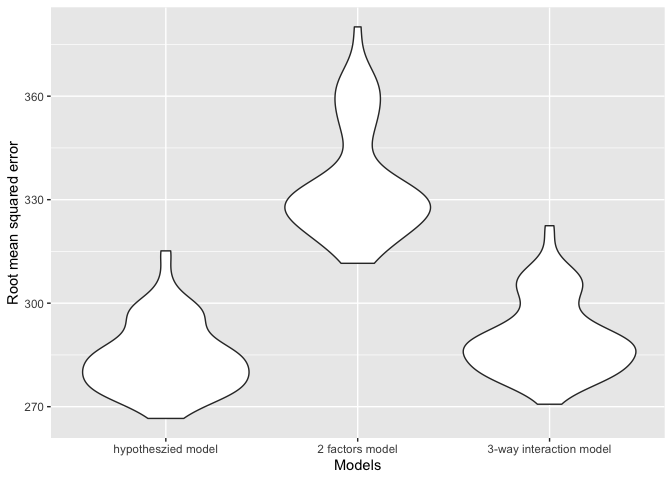
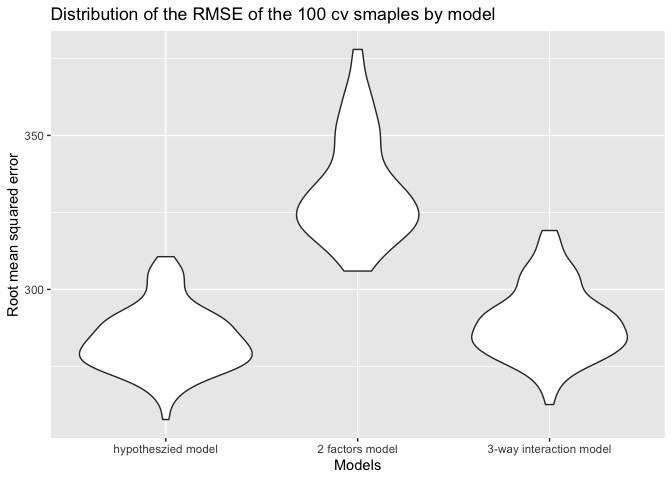
Problem 2 finished

diff --git a/p8105_hw6_xm2229.md b/p8105_hw6_xm2229.md
@@ -12,14 +12,14 @@ factor where appropriate, check for missing data, etc.).
 library(tidyverse)
 ```
 
-    ## ── Attaching packages ──────────────────────────────────────────── tidyverse 1.2.1 ──
+    ## ── Attaching packages ─────────────────────────────────────── tidyverse 1.2.1 ──
 
     ## ✔ ggplot2 3.2.1     ✔ purrr   0.3.3
     ## ✔ tibble  2.1.3     ✔ dplyr   0.8.3
     ## ✔ tidyr   1.0.0     ✔ stringr 1.4.0
     ## ✔ readr   1.3.1     ✔ forcats 0.4.0
 
-    ## ── Conflicts ─────────────────────────────────────────────── tidyverse_conflicts() ──
+    ## ── Conflicts ────────────────────────────────────────── tidyverse_conflicts() ──
     ## ✖ dplyr::filter() masks stats::filter()
     ## ✖ dplyr::lag()    masks stats::lag()
 
@@ -44,7 +44,7 @@ janitor::clean_names(raw_bw) %>%
     ##  n obs: 4342 
     ##  n variables: 20 
     ## 
-    ## ── Variable type:numeric ────────────────────────────────────────────────────────────
+    ## ── Variable type:numeric ───────────────────────────────────────────────────────
     ##  variable missing complete    n      mean      sd     p0     p25     p50
     ##   babysex       0     4342 4342    1.49     0.5     1       1       1   
     ##     bhead       0     4342 4342   33.65     1.62   21      33      34   
@@ -124,7 +124,7 @@ skimr::skim(cleaned_bw)
     ##  n obs: 4342 
     ##  n variables: 20 
     ## 
-    ## ── Variable type:factor ─────────────────────────────────────────────────────────────
+    ## ── Variable type:factor ────────────────────────────────────────────────────────
     ##  variable missing complete    n n_unique
     ##   babysex       0     4342 4342        2
     ##     frace       0     4342 4342        5
@@ -136,7 +136,7 @@ skimr::skim(cleaned_bw)
     ##                abs: 4327, pre: 15, NA: 0   FALSE
     ##  whi: 2147, bla: 1909, pue: 243, asi: 43   FALSE
     ## 
-    ## ── Variable type:numeric ────────────────────────────────────────────────────────────
+    ## ── Variable type:numeric ───────────────────────────────────────────────────────
     ##  variable missing complete    n      mean     sd     p0     p25     p50
     ##     bhead       0     4342 4342   33.65     1.62  21      33      34   
     ##   blength       0     4342 4342   49.75     2.72  20      48      50   
@@ -225,7 +225,10 @@ cv_result %>%
     values_to =  "rmse",
     names_prefix = "rmse_") %>%
   mutate(model = fct_inorder(model)) %>%
-  ggplot(aes(x = model, y = rmse)) + geom_violin() + scale_x_discrete(labels = c("hypotheszied model", "2 factors model", "3-way interaction model")) + xlab("Models") + ylab("Root mean squared error")
+  ggplot(aes(x = model, y = rmse)) + geom_violin() + 
+  scale_x_discrete(labels = c("hypotheszied model", "2 factors model", "3-way interaction model")) + 
+  xlab("Models") + ylab("Root mean squared error") + 
+  labs(title = "Distribution of the RMSE of the 100 cv smaples by model")
 ```
 
 ![](p8105_hw6_xm2229_files/figure-gfm/unnamed-chunk-4-1.png)<!-- -->
@@ -249,8 +252,102 @@ cv_result %>%
 
 | model       | mean\_rmse |
 | :---------- | ---------: |
-| bg          |   335.2390 |
-| hypothsized |   284.2287 |
-| interaction |   290.1151 |
+| bg          |   332.7214 |
+| hypothsized |   283.6415 |
+| interaction |   289.3500 |
 
 ## Problem 2
+
+download the weather dataset
+
+``` r
+weather_df = 
+  rnoaa::meteo_pull_monitors(
+    c("USW00094728"),
+    var = c("PRCP", "TMIN", "TMAX"), 
+    date_min = "2017-01-01",
+    date_max = "2017-12-31") %>%
+  mutate(
+    name = recode(id, USW00094728 = "CentralPark_NY"),
+    tmin = tmin / 10,
+    tmax = tmax / 10) %>%
+  select(name, id, everything())
+```
+
+    ## Registered S3 method overwritten by 'hoardr':
+    ##   method           from
+    ##   print.cache_info httr
+
+    ## file path:          /Users/yeungSL/Library/Caches/rnoaa/ghcnd/USW00094728.dly
+
+    ## file last updated:  2019-11-17 00:42:48
+
+    ## file min/max dates: 1869-01-01 / 2019-11-30
+
+Start to pull 5000 bootstrap samples from `weather_df`
+
+``` r
+boot_weather = data_frame(strap_number = 1:5000,
+           strap_sample = rerun(5000, sample_frac(weather_df, replace=TRUE)))
+```
+
+    ## Warning: `data_frame()` is deprecated, use `tibble()`.
+    ## This warning is displayed once per session.
+
+``` r
+dim(boot_weather)
+```
+
+    ## [1] 5000    2
+
+For each samples run regression `tmax ~ tmin` and extract \(\hat{r}^2\)
+and \(log(\hat{\beta_0} * \hat{\beta_1})\).
+
+``` r
+results = boot_weather %>%
+  mutate(models = map(strap_sample, ~lm(tmax ~ tmin, data = .x)),
+         results_glance = map(models, broom::glance),
+         results_tidy = map(models, broom::tidy)) %>%
+  select(-strap_sample, -models) %>%
+  unnest() %>%
+  select(strap_number, r.squared, estimate) %>%
+  group_by(strap_number) %>%
+  summarise(r_squared = unique(r.squared),
+            log_prod = log(prod(estimate)))
+```
+
+    ## Warning: `cols` is now required.
+    ## Please use `cols = c(results_glance, results_tidy)`
+
+``` r
+head(results) %>% knitr::kable()
+```
+
+| strap\_number | r\_squared | log\_prod |
+| ------------: | ---------: | --------: |
+|             1 |  0.9104302 |  2.025209 |
+|             2 |  0.9152444 |  2.001228 |
+|             3 |  0.9077406 |  1.977013 |
+|             4 |  0.8993909 |  2.020108 |
+|             5 |  0.9176064 |  2.003625 |
+|             6 |  0.9247015 |  1.996402 |
+
+Calcualte the 2.5% and 97.5% quantiles for column `r_squared` to get the
+95% confidence interval for \(\hat{r}^2\).
+
+``` r
+quantile(results$r_squared, probs = c(0.025, 0.975))
+```
+
+    ##      2.5%     97.5% 
+    ## 0.8941092 0.9273637
+
+Calcualte the 2.5% and 97.5% quantiles for column `log_prod` to get the
+95% confidence interval for \(log(\hat{\beta_0} * \hat{\beta_1})\).
+
+``` r
+quantile(results$log_prod, probs = c(0.025, 0.975))
+```
+
+    ##     2.5%    97.5% 
+    ## 1.964631 2.059218
